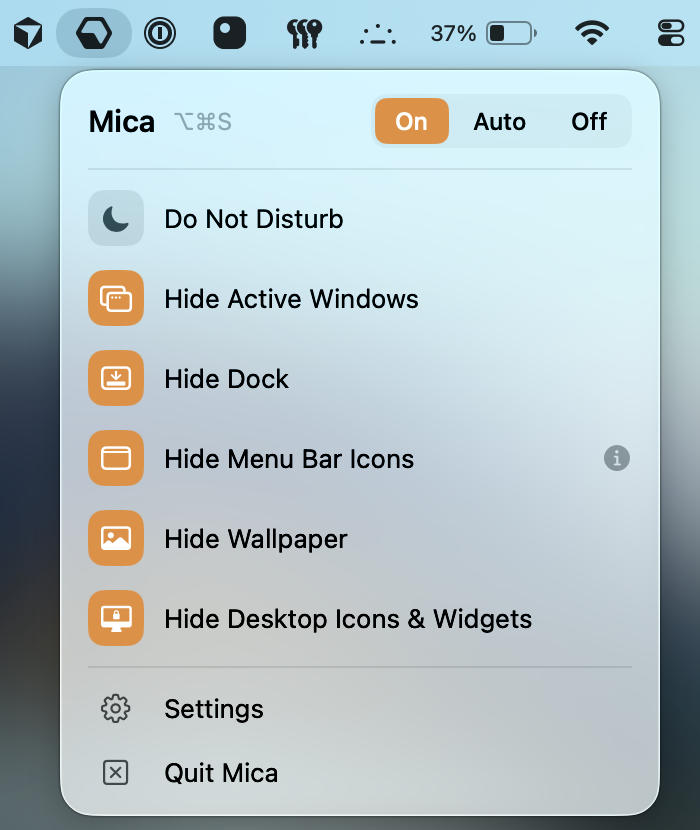
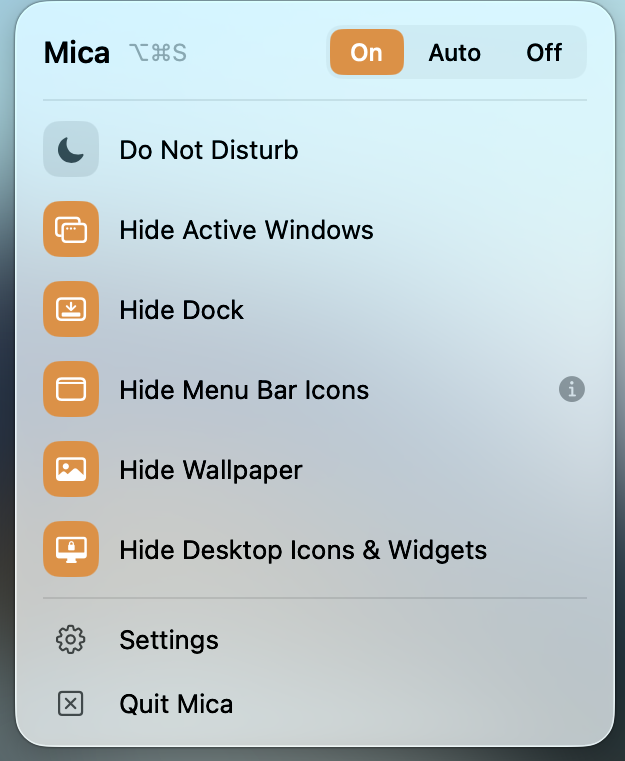
ui: pair each section's text with its screenshot, and size shots to life
Screenshots were stacked under their prose at the full width of the hero
video, which suited the 16:9 recording and nothing else. The menu bar
panel is a tall image, so filling a 760px column blew a 390pt interface up
to roughly triple life size; the settings captures already contain a macOS
window, so the card chrome around them produced two sets of traffic lights
in one frame.

Sections now put text and image side by side and alternate which side the
image takes, so the page reads as a column of pairs rather than one long
stack. Each shot caps at its own width — 330px for the panel, 460px for
the settings windows — which lands the controls near the size they are on
a real screen. The outer measure widens to accommodate two columns while
running text stays held to the old 560px, and the columns collapse on
narrow viewports without letting the reversed row float an image above the
text that introduces it.

The panel crop is redone against measured bounds rather than estimated
ones. It previously carried a partial menu bar band and uneven margins —
59px left against 44px right and 14px bottom — which is what made it look
lopsided. It is now cropped to the panel with an even margin, clear of the
menu bar. The settings crops measured out even already and are unchanged.

diff --git a/src/routes/+page.svelte b/src/routes/+page.svelte
@@ -21,7 +21,7 @@
 	<meta name="twitter:card" content="summary_large_image" />
 </svelte:head>
 
-<div class="col">
+<div class="col-wide">
 	<header class="top">
 		<a href="#top" aria-label="Mica"><span class="mark"><Mark /></span></a>
 		<nav class="topnav">
@@ -34,8 +34,8 @@
 </div>
 
 <main id="top">
-	<div class="col">
-		<section class="hero">
+	<div class="col-wide">
+		<section class="hero measure">
 			<h1>Hide your desktop<br />before anyone else sees it.</h1>
 			<p>
 				Mica clears the screen in one keystroke — windows, Dock, menu bar icons, wallpaper,
@@ -49,9 +49,7 @@
 			</div>
 			<p class="req">Free &amp; open source · macOS 15+ · Apple Silicon &amp; Intel</p>
 		</section>
-	</div>
 
-	<div class="col-wide">
 		<figure class="media">
 			<div class="bar"><i></i><i></i><i></i></div>
 			<!-- svelte-ignore a11y_media_has_caption -->
@@ -68,20 +66,32 @@
 			></video>
 			<figcaption>One switch at a time — Dock, menu bar, wallpaper, desktop icons.</figcaption>
 		</figure>
-	</div>
 
-	<div class="col">
 		<div class="rule"></div>
 
 		<section class="sec" id="switches">
-			<div class="num">01</div>
-			<h2>Six switches, one keystroke</h2>
-			<p>
-				Everything lives in one menu bar panel. <span class="hl">On</span> hides now.
-				<span class="hl">Auto</span> hides only while your screen is being watched.
-				<span class="hl">Off</span> stands down. <span class="hl">⌥⌘S</span> flips it from anywhere.
-			</p>
-			<p>Nothing is closed and nothing is lost — an app you'd already hidden stays hidden.</p>
+			<div class="split">
+				<div class="txt">
+					<div class="num">01</div>
+					<h2>Six switches, one keystroke</h2>
+					<p>
+						Everything lives in one menu bar panel. <span class="hl">On</span> hides now.
+						<span class="hl">Auto</span> hides only while your screen is being watched.
+						<span class="hl">Off</span> stands down. <span class="hl">⌥⌘S</span> flips it from
+						anywhere.
+					</p>
+					<p>Nothing is closed and nothing is lost — an app you'd already hidden stays hidden.</p>
+				</div>
+				<Shot
+					src="/media/panel.png"
+					width={625}
+					height={761}
+					max={330}
+					alt="Mica's menu bar panel, set to On, with all six switches enabled."
+					caption="The whole app is one panel."
+				/>
+			</div>
+
 			<ul class="flist">
 				<li><span class="k">Do Not Disturb</span><span class="v">Silences notifications.</span></li>
 				<li>
@@ -106,59 +116,62 @@
 					>
 				</li>
 			</ul>
-			<Shot
-				src="/media/panel.png"
-				width={700}
-				height={830}
-				alt="Mica's menu bar panel, set to On, with all six switches enabled."
-				caption="The whole app is one panel."
-			/>
 		</section>
 
 		<section class="sec" id="windows">
-			<div class="num">02</div>
-			<h2>Everything, or only what you choose</h2>
-			<p>
-				Hiding every window is usually too much — you still need the thing you're presenting. So
-				choose the scope: <span class="hl">all windows</span>,
-				<span class="hl">all except the frontmost</span>, or name the apps yourself and hide
-				<span class="hl">only those</span> — or everything <span class="hl">but</span> those.
-			</p>
-			<p>The messages keep arriving. Nobody watching sees them.</p>
-			<Shot
-				src="/media/windows.png"
-				width={1280}
-				height={1180}
-				alt="Mica's Windows settings: four hiding scopes, with Claude, Messages and WhatsApp picked."
-				caption="Settings › Windows — the apps you'd rather not explain."
-			/>
+			<div class="split rev">
+				<div class="txt">
+					<div class="num">02</div>
+					<h2>Everything, or only what you choose</h2>
+					<p>
+						Hiding every window is usually too much — you still need the thing you're presenting.
+						So choose the scope: <span class="hl">all windows</span>,
+						<span class="hl">all except the frontmost</span>, or name the apps yourself and hide
+						<span class="hl">only those</span> — or everything <span class="hl">but</span> those.
+					</p>
+					<p>The messages keep arriving. Nobody watching sees them.</p>
+				</div>
+				<Shot
+					src="/media/windows.png"
+					width={1280}
+					height={1180}
+					max={460}
+					alt="Mica's Windows settings: four hiding scopes, with Claude, Messages and WhatsApp picked."
+					caption="Settings › Windows — the apps you'd rather not explain."
+				/>
+			</div>
 		</section>
 
 		<section class="sec" id="triggers">
-			<div class="num">03</div>
-			<h2>It can turn itself on</h2>
-			<p>
-				In <span class="hl">Auto</span>, Mica watches for the moments that mean someone else is
-				about to see your screen — a share or recording starting in Zoom, Meet, Teams, QuickTime,
-				OBS or <span class="hl">⌘⇧5</span>, and a display being mirrored or extended.
-			</p>
-			<p>
-				You can add apps of your own, each set to turn Mica on or just remind you. And exclusions —
-				apps that hold it off no matter what else is happening, so it never fires while you're
-				doing the one thing you actually wanted on screen.
-			</p>
-			<Shot
-				src="/media/triggers.png"
-				width={1280}
-				height={1180}
-				alt="Mica's Triggers settings: trigger apps that switch it on, and excluded apps that hold it off."
-				caption="Settings › Triggers — turn on for these, never for those."
-			/>
+			<div class="split">
+				<div class="txt">
+					<div class="num">03</div>
+					<h2>It can turn itself on</h2>
+					<p>
+						In <span class="hl">Auto</span>, Mica watches for the moments that mean someone else is
+						about to see your screen — a share or recording starting in Zoom, Meet, Teams,
+						QuickTime, OBS or <span class="hl">⌘⇧5</span>, and a display being mirrored or
+						extended.
+					</p>
+					<p>
+						You can add apps of your own, each set to turn Mica on or just remind you. And
+						exclusions — apps that hold it off no matter what else is happening.
+					</p>
+				</div>
+				<Shot
+					src="/media/triggers.png"
+					width={1280}
+					height={1180}
+					max={460}
+					alt="Mica's Triggers settings: trigger apps that switch it on, and excluded apps that hold it off."
+					caption="Settings › Triggers — turn on for these, never for those."
+				/>
+			</div>
 		</section>
 
 		<div class="rule"></div>
 
-		<section class="sec" id="get">
+		<section class="sec measure" id="get">
 			<div class="num">04</div>
 			<h2>Get Mica</h2>
 			<p>Free, open source, and yours to keep. No account, no subscription, no tracking.</p>

diff --git a/src/app.css b/src/app.css
@@ -7,9 +7,9 @@
 	--faint: #b0ada8;
 	--line: #e2e0db;
 	--col: 560px;
-	/* Media runs wider than the prose. A 16:9 still squeezed into a 560px measure is
-	   unreadable, and the text column is what sets the page's rhythm anyway. */
-	--col-wide: 760px;
+	/* The page's real width. Prose inside it is held to `--col` so lines stay readable,
+	   while the video and the paired text/image rows use the full measure. */
+	--col-wide: 940px;
 	--mono: 'SF Mono', ui-monospace, SFMono-Regular, Menlo, 'Roboto Mono', monospace;
 }
 
@@ -62,6 +62,33 @@ a {
 	padding: 0 28px;
 }
 
+/* ---- Alternating text/image rows ----
+   Sections pair their prose with their screenshot side by side and swap sides each
+   time, so the page reads as a column of related pairs rather than a single stack of
+   text-then-picture. Below the breakpoint the columns collapse and `.rev` stops
+   reordering, which would otherwise put an image above the text that introduces it. */
+.split {
+	display: grid;
+	grid-template-columns: minmax(0, 1fr) minmax(0, 1fr);
+	gap: 52px;
+	align-items: center;
+}
+.split > .fig {
+	margin: 0;
+}
+.split.rev > .txt {
+	order: 2;
+}
+@media (max-width: 820px) {
+	.split {
+		grid-template-columns: minmax(0, 1fr);
+		gap: 24px;
+	}
+	.split.rev > .txt {
+		order: 0;
+	}
+}
+
 /* ---- Top mark + nav ---- */
 .top {
 	display: flex;
@@ -86,6 +113,11 @@ a {
 }
 .topnav a:hover {
 	color: var(--ink);
+}
+
+/* Holds running text to a readable line length inside the wider page. */
+.measure {
+	max-width: var(--col);
 }
 
 /* ---- Hero ---- */
@@ -177,6 +209,31 @@ p.ink {
 	color: var(--faint);
 	padding: 10px 14px;
 	border-top: 1px solid var(--card-line);
+}
+
+/* ---- Screenshots ----
+   Sized to the interface, not to the column. Each shot caps at its own width so the
+   controls read at about the scale they are on a real screen; stretching a 390pt menu
+   bar panel across a 760px column magnifies it to roughly triple life size, which is
+   what made these look like enlargements rather than screenshots. */
+.shot {
+	margin: 30px 0;
+}
+.shot img {
+	display: block;
+	width: 100%;
+	max-width: var(--shot-max, 520px);
+	height: auto;
+	border: 1px solid var(--card-line);
+	border-radius: 10px;
+	/* Centred within its grid column: the panel is narrower than the column it sits in,
+	   and pinning it to one edge reads as a mistake rather than a choice. */
+	margin-inline: auto;
+}
+.shot figcaption {
+	font-size: 11px;
+	color: var(--faint);
+	margin-top: 10px;
 }
 
 /* ---- Sections ---- */

diff --git a/src/lib/components/Shot.svelte b/src/lib/components/Shot.svelte
@@ -1,11 +1,14 @@
 <script>
-	// A screenshot in the same window-chrome frame the hero video uses, so stills and
-	// motion read as one set rather than two kinds of thing.
-	let { src, alt, caption, width, height } = $props();
+	// A UI screenshot, shown at roughly the size the interface really is on screen.
+	//
+	// No window chrome is drawn around it: these captures already contain a macOS window
+	// (or the menu bar), and framing them a second time reads as a screenshot of a
+	// screenshot. `max` is the displayed width in CSS pixels, chosen per image so the
+	// controls land near life size rather than being blown up to fill the column.
+	let { src, alt, caption, width, height, max = 520 } = $props();
 </script>
 
-<figure class="media">
-	<div class="bar"><i></i><i></i><i></i></div>
+<figure class="shot" style="--shot-max: {max}px">
 	<img {src} {alt} {width} {height} loading="lazy" decoding="async" />
 	{#if caption}<figcaption>{caption}</figcaption>{/if}
 </figure>
